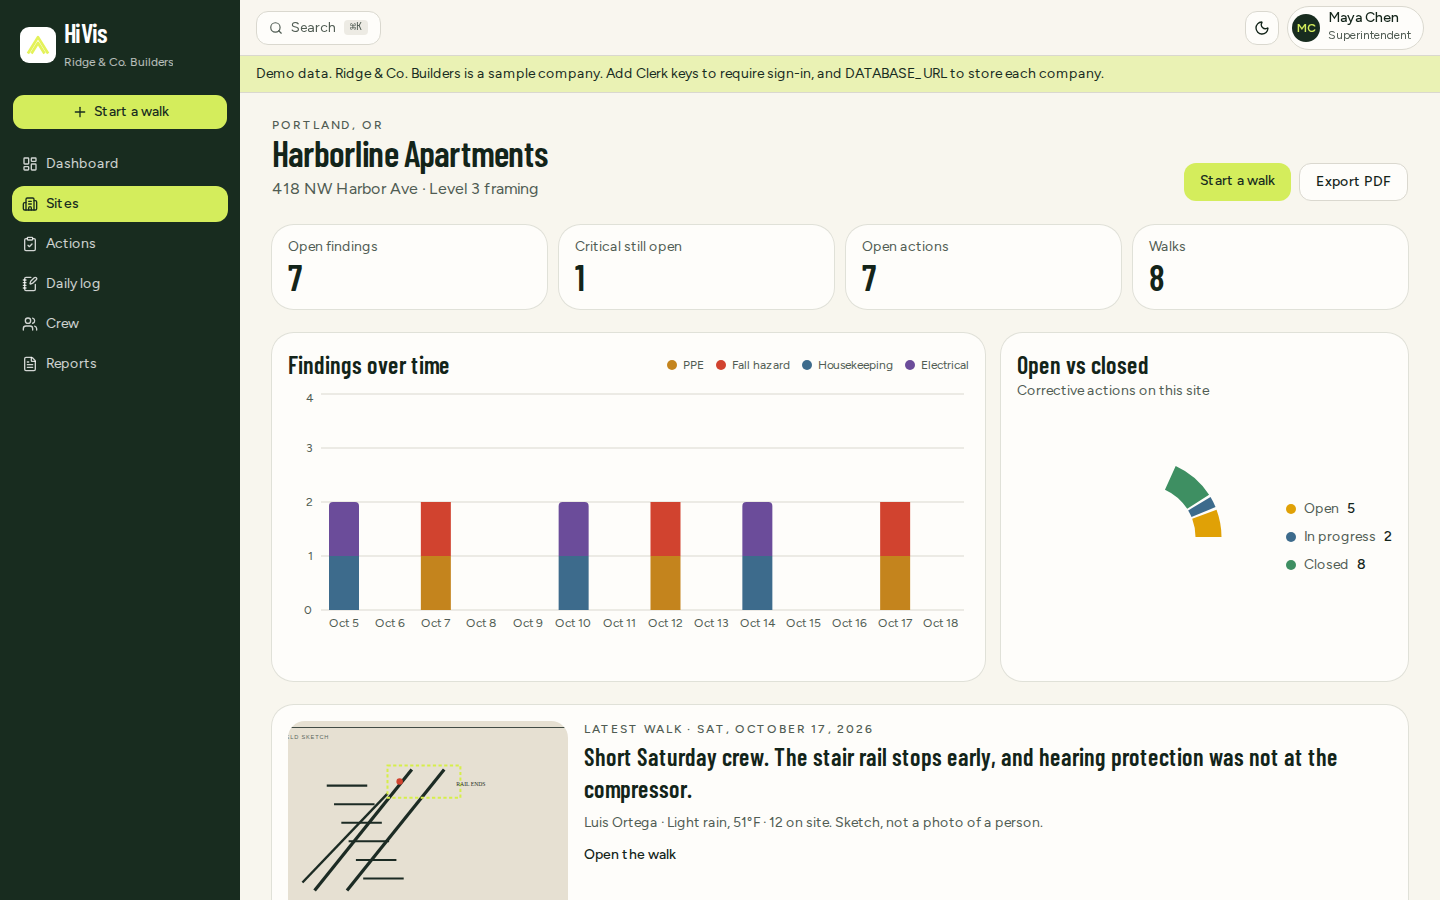
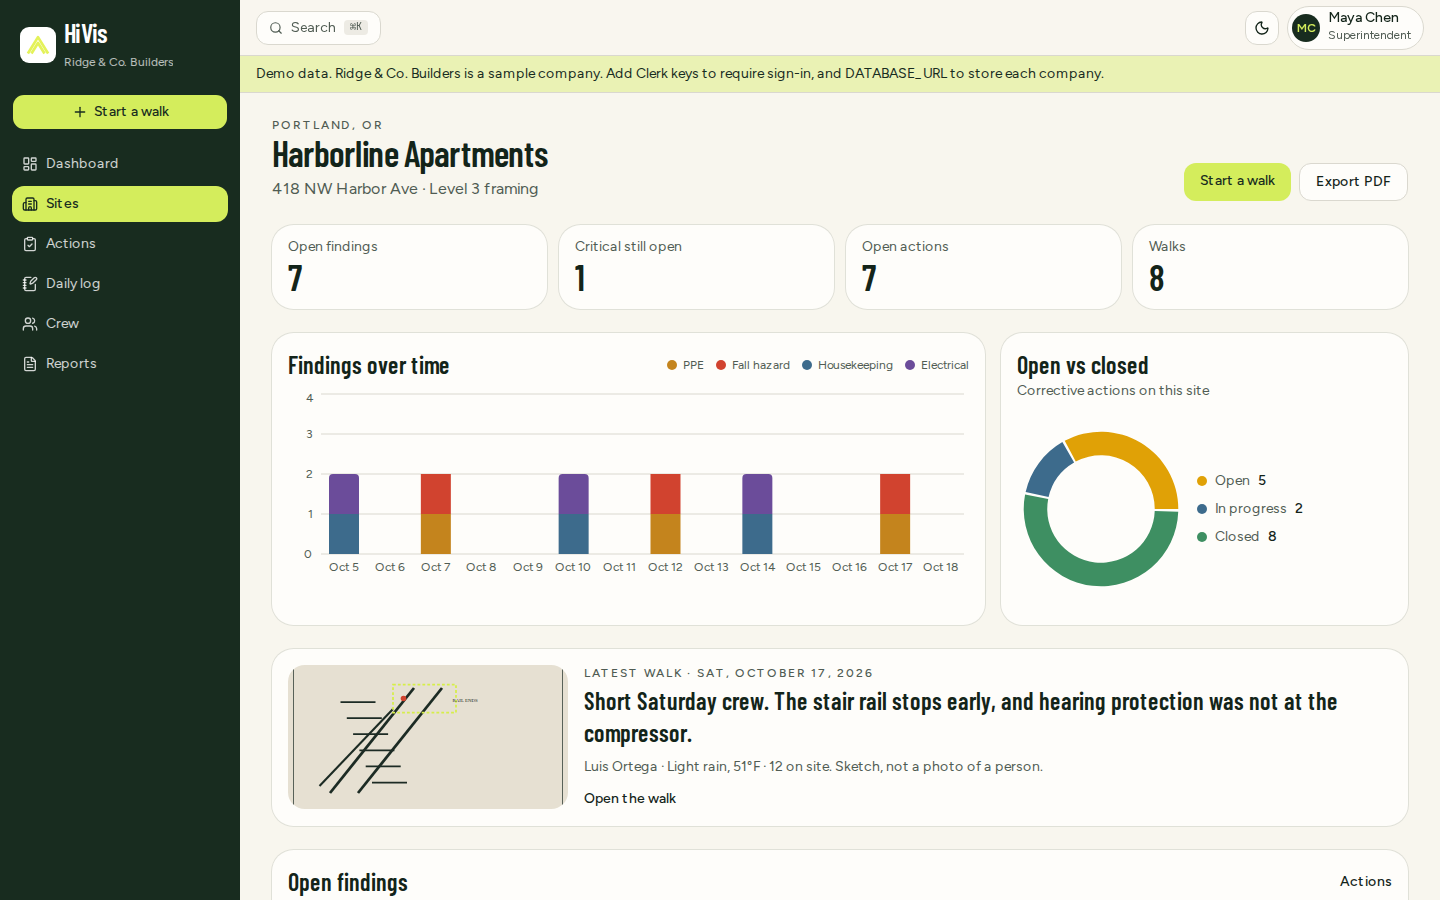
fix: draw the full action ring on the site dashboard
Turn chart animation off so the open-versus-closed donut is complete
on first paint, and recapture the portfolio screenshot.

Changed region(s): [[0.1875, 0.5289, 0.9375, 1.0], [0.6875, 0.4667, 0.9688, 0.6533], [0.9375, 0.9644, 0.9688, 0.9956]]

diff --git a/src/components/charts.tsx b/src/components/charts.tsx
@@ -20,10 +20,10 @@ export function FindingsChart({ data, height = 240 }: { data: FindingPoint[]; he
             cursor={{ fill: "var(--muted)" }}
             contentStyle={{ background: "var(--card)", border: "1px solid var(--border)", borderRadius: 12, fontSize: 12 }}
           />
-          <Bar dataKey="ppe" name="PPE" stackId="findings" fill={CATEGORY_META.ppe.color} />
-          <Bar dataKey="fall" name="Fall hazard" stackId="findings" fill={CATEGORY_META.fall.color} />
-          <Bar dataKey="housekeeping" name="Housekeeping" stackId="findings" fill={CATEGORY_META.housekeeping.color} />
-          <Bar dataKey="electrical" name="Electrical" stackId="findings" fill={CATEGORY_META.electrical.color} radius={[4, 4, 0, 0]} />
+          <Bar dataKey="ppe" name="PPE" stackId="findings" fill={CATEGORY_META.ppe.color} isAnimationActive={false} />
+          <Bar dataKey="fall" name="Fall hazard" stackId="findings" fill={CATEGORY_META.fall.color} isAnimationActive={false} />
+          <Bar dataKey="housekeeping" name="Housekeeping" stackId="findings" fill={CATEGORY_META.housekeeping.color} isAnimationActive={false} />
+          <Bar dataKey="electrical" name="Electrical" stackId="findings" fill={CATEGORY_META.electrical.color} radius={[4, 4, 0, 0]} isAnimationActive={false} />
         </BarChart>
       </ResponsiveContainer>
     </div>
@@ -35,20 +35,28 @@ export function ActionsChart({ data, height = 220 }: { data: { key: "open" | "in
   if (!total) {
     return <p className="text-sm text-muted-foreground">No corrective actions yet.</p>;
   }
+  const size = Math.min(height, 168);
   return (
-    <div className="flex items-center gap-2" style={{ height }}>
-      <div className="h-full w-44 shrink-0">
-        <ResponsiveContainer width="100%" height="100%">
-          <PieChart>
-            <Pie data={data} dataKey="value" nameKey="label" cx="50%" cy="50%" innerRadius={46} outerRadius={70} paddingAngle={2} stroke="none">
-              {data.map((item) => (
-                <Cell key={item.key} fill={ACTION_CHART_COLORS[item.key]} />
-              ))}
-            </Pie>
-            <Tooltip contentStyle={{ background: "var(--card)", border: "1px solid var(--border)", borderRadius: 12, fontSize: 12 }} />
-          </PieChart>
-        </ResponsiveContainer>
-      </div>
+    <div className="flex items-center gap-3" style={{ height }}>
+      <PieChart width={size} height={size} margin={{ top: 0, right: 0, bottom: 0, left: 0 }}>
+        <Pie
+          data={data}
+          dataKey="value"
+          nameKey="label"
+          cx={size / 2}
+          cy={size / 2}
+          innerRadius={size * 0.32}
+          outerRadius={size * 0.46}
+          paddingAngle={2}
+          stroke="none"
+          isAnimationActive={false}
+        >
+          {data.map((item) => (
+            <Cell key={item.key} fill={ACTION_CHART_COLORS[item.key]} />
+          ))}
+        </Pie>
+        <Tooltip contentStyle={{ background: "var(--card)", border: "1px solid var(--border)", borderRadius: 12, fontSize: 12 }} />
+      </PieChart>
       <ul className="space-y-2 text-sm">
         {data.map((item) => (
           <li key={item.key} className="flex items-center gap-2">
